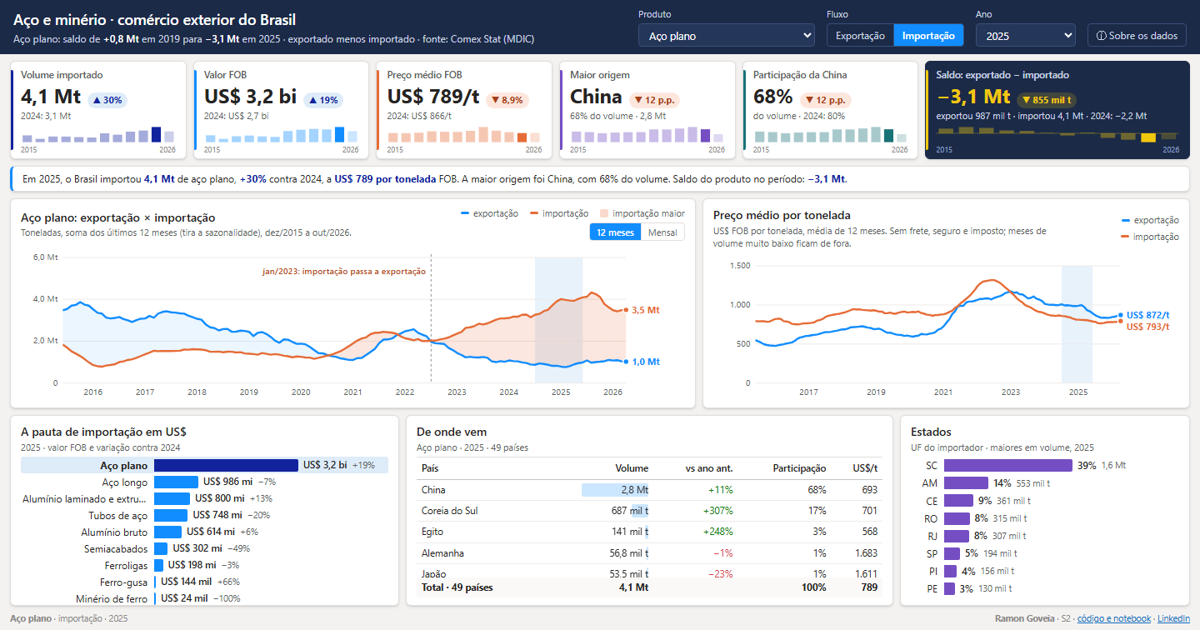
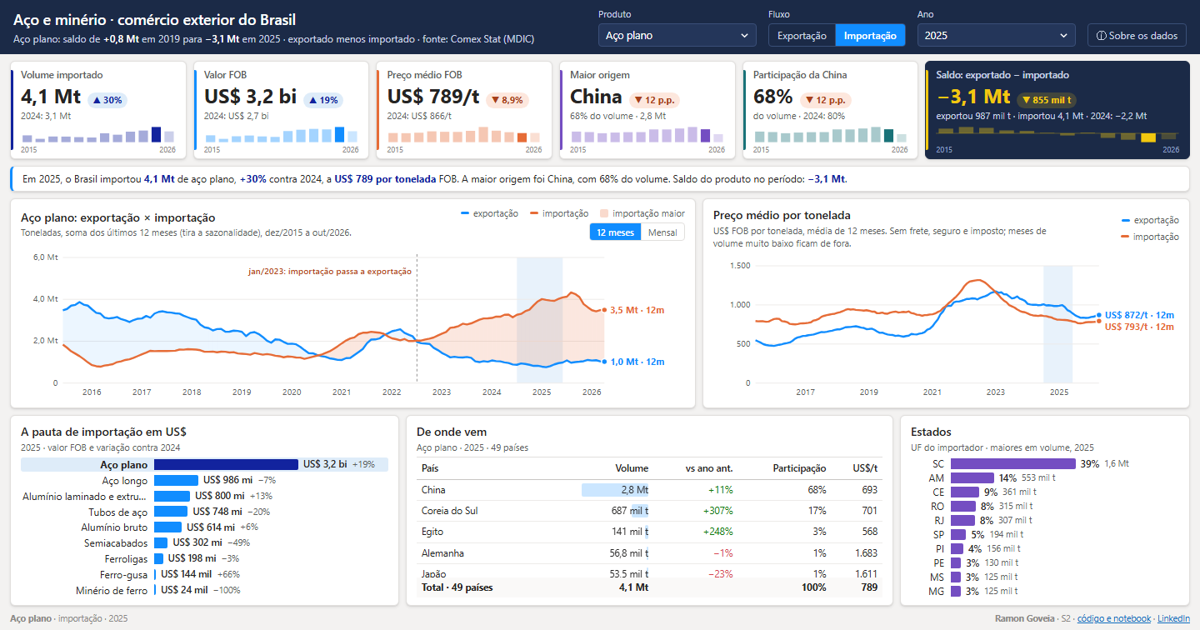
Revisão: ponteiro normal, pauta inteira em telas baixas, UFs especiais, rótulos de 12 meses e variação zero neutra

diff --git a/painel/app.js b/painel/app.js
@@ -106,7 +106,9 @@
   function delta(id, v, f) {
     const e = $(id);
     if (v == null || !isFinite(v)) { e.textContent = ''; e.className = 'delta'; return; }
-    e.className = 'delta ' + (v >= 0 ? 'up' : 'down'); e.textContent = (v >= 0 ? '▲ ' : '▼ ') + f(Math.abs(v));
+    const t = f(Math.abs(v));
+    if (t === f(0)) { e.className = 'delta zero'; e.textContent = '= ' + t; return; }
+    e.className = 'delta ' + (v >= 0 ? 'up' : 'down'); e.textContent = (v >= 0 ? '▲ ' : '▼ ') + t;
   }
   const fPct = v => nf(v * 100, v < .1 ? 1 : 0) + '%', fPP = v => nf(v * 100, 0) + ' p.p.';
   const sinalT = t => (t >= 0 ? '+' : '−') + ton(Math.abs(t));
@@ -174,7 +176,7 @@
 
     // leitura
     let txt = `Em ${rotPer(a)}, o Brasil ${f ? 'importou' : 'exportou'} <b>${ton(atual.t)}</b> de ${prod.toLowerCase()}${nomeC ? (f ? ' (origem: ' : ' (destino: ') + nomeC + ')' : ''}`;
-    if (ant && ant.t > 0) txt += `, <b>${pct(atual.t / ant.t - 1)}</b> contra ${a === UA ? 'o mesmo período de ' : ''}${a - 1}`;
+    if (ant && ant.t > 0) txt += `, <b>${(atual.t >= ant.t ? '+' : '−') + fPct(Math.abs(atual.t / ant.t - 1))}</b> contra ${a === UA ? 'o mesmo período de ' : ''}${a - 1}`;
     if (pr) txt += `, a <b>US$ ${nf(pr)} por tonelada</b> FOB`;
     txt += '.';
     if (!nomeC && ord.length) txt += ` ${f ? 'A maior origem' : 'O maior destino'} foi ${D.paises[ord[0][0]]}, com ${pp(ord[0][1].t / totT)} do volume.`;
@@ -190,7 +192,7 @@
   const rotMes = i => `${MES[i % 12]}/${A0 + Math.floor(i / 12)}`;
   function grafico(id, series, o) {
     const el = $(id), box = el.parentNode.getBoundingClientRect(), i0 = o.i0 || 0;
-    const W = Math.max(280, Math.round(box.width)), H = Math.max(150, Math.round(box.height)), m = { l: 50, r: 70, t: 16, b: 20 };
+    const W = Math.max(280, Math.round(box.width)), H = Math.max(150, Math.round(box.height)), m = { l: 50, r: 96, t: 16, b: 20 };
     const vals = series.flatMap(s => s.v.slice(i0)).filter(v => v != null && isFinite(v));
     if (!vals.length) { el.innerHTML = ''; return; }
     let mx = Math.max(...vals), mn = o.zero ? Math.min(...vals, 0) : Math.min(...vals);
@@ -229,7 +231,7 @@
       let d = '', pen = false, ult = -1;
       s.v.forEach((v, i) => { if (i < i0 || v == null || !isFinite(v)) { pen = false; return; } d += (pen ? 'L' : 'M') + X(i).toFixed(1) + ',' + Y(v).toFixed(1); pen = true; ult = i; });
       g += `<path d="${d}" fill="none" stroke="${s.cor}" stroke-width="${o.fino ? 1.4 : 2.4}" stroke-linejoin="round"/>`;
-      if (ult >= 0) fins.push({ x: X(ult), y: Y(s.v[ult]), cor: s.cor, txt: o.fmt(s.v[ult], true) });
+      if (ult >= 0) fins.push({ x: X(ult), y: Y(s.v[ult]), cor: s.cor, txt: o.fmt(s.v[ult], true) + (o.sufixo || '') });
     }
     fins.sort((p, q) => p.y - q.y);
     for (let k = 1; k < fins.length; k++) { const prev = fins[k - 1].ty || fins[k - 1].y; if (fins[k].y - prev < 14) fins[k].ty = prev + 14; }
@@ -256,12 +258,12 @@
     const fT = (v, longo) => longo ? ton(v) : (v === 0 ? '0' : v >= 1e6 ? nf(v / 1e6, v >= 1e7 ? 0 : 1) + ' Mt' : nf(v / 1e3) + ' mil');
     const ve = doze ? rolar(Array.from(e.t)) : Array.from(e.t), vi = doze ? rolar(Array.from(i.t)) : Array.from(i.t);
     grafico('svgSerie', [{ nome: 'exportação', cor: '#118dff', v: ve }, { nome: 'importação', cor: '#e66c37', v: vi }],
-      { fmt: fT, titulo: doze ? 'soma de 12 meses' : 'no mês', i0: doze ? 11 : 0, zero: true, area: true, cruz: doze, fino: !doze });
+      { fmt: fT, titulo: doze ? 'soma de 12 meses' : 'no mês', i0: doze ? 11 : 0, zero: true, area: true, cruz: doze, fino: !doze, sufixo: doze ? ' · 12m' : '' });
     // preço: some quando o volume de 12 meses é muito baixo (evita picos de poucas toneladas)
     const pr = s => { const t = rolar(Array.from(s.t)), v = rolar(Array.from(s.v)), lim = Math.max(0, ...t.filter(x => x != null)) * .03; return t.map((x, k) => x != null && x > lim && x > 0 ? v[k] * 1000 / x : null); };
     $('precoSub').textContent = `US$ FOB por tonelada, média de 12 meses${nomeC}. Sem frete, seguro e imposto; meses de volume muito baixo ficam de fora.`;
     grafico('svgPreco', [{ nome: 'exportação', cor: '#118dff', v: pr(e) }, { nome: 'importação', cor: '#e66c37', v: pr(i) }],
-      { fmt: (v, longo) => (longo ? 'US$ ' : '') + nf(v) + (longo ? '/t' : ''), titulo: 'preço médio de 12 meses', i0: 11, zero: false });
+      { fmt: (v, longo) => (longo ? 'US$ ' : '') + nf(v) + (longo ? '/t' : ''), titulo: 'preço médio de 12 meses', i0: 11, zero: false, sufixo: ' · 12m' });
   }
   document.querySelectorAll('#fModo button').forEach(b => b.onclick = () => { st.modo = +b.dataset.m === 1 ? 1 : 12; renderSeries(); });
 
@@ -299,7 +301,7 @@
     $('ufSub').textContent = `${f ? 'UF do importador' : 'UF produtora'} · maiores em volume, ${rotPer(st.ano)}`;
     const tot = [...loc.values()].reduce((s, x) => s + x.t, 0);
     const ord = [...loc.entries()].filter(([, x]) => x.t > 0).sort((x, y) => y[1].t - x[1].t).slice(0, 10), mx = ord.length ? ord[0][1].t : 1;
-    const sig = n => ({ 'Minas Gerais': 'MG', 'São Paulo': 'SP', 'Rio de Janeiro': 'RJ', 'Espírito Santo': 'ES', 'Paraná': 'PR', 'Santa Catarina': 'SC', 'Rio Grande do Sul': 'RS', 'Bahia': 'BA', 'Pará': 'PA', 'Maranhão': 'MA', 'Ceará': 'CE', 'Pernambuco': 'PE', 'Goiás': 'GO', 'Mato Grosso': 'MT', 'Mato Grosso do Sul': 'MS', 'Amazonas': 'AM', 'Distrito Federal': 'DF', 'Paraíba': 'PB', 'Rio Grande do Norte': 'RN', 'Alagoas': 'AL', 'Sergipe': 'SE', 'Piauí': 'PI', 'Tocantins': 'TO', 'Rondônia': 'RO', 'Acre': 'AC', 'Amapá': 'AP', 'Roraima': 'RR' }[n] || n.slice(0, 6));
+    const sig = n => ({ 'Minas Gerais': 'MG', 'São Paulo': 'SP', 'Rio de Janeiro': 'RJ', 'Espírito Santo': 'ES', 'Paraná': 'PR', 'Santa Catarina': 'SC', 'Rio Grande do Sul': 'RS', 'Bahia': 'BA', 'Pará': 'PA', 'Maranhão': 'MA', 'Ceará': 'CE', 'Pernambuco': 'PE', 'Goiás': 'GO', 'Mato Grosso': 'MT', 'Mato Grosso do Sul': 'MS', 'Amazonas': 'AM', 'Distrito Federal': 'DF', 'Paraíba': 'PB', 'Rio Grande do Norte': 'RN', 'Alagoas': 'AL', 'Sergipe': 'SE', 'Piauí': 'PI', 'Tocantins': 'TO', 'Rondônia': 'RO', 'Acre': 'AC', 'Amapá': 'AP', 'Roraima': 'RR', 'Não Declarada': 'N/D', 'Mercadoria Nacionalizada': 'Nac.', 'Reexportação': 'Reex.' }[n] || n.slice(0, 5));
     $('ufs').innerHTML = ord.length ? ord.map(([k, x]) => `<div class="linha" title="${D.ufs[k]}"><span class="n">${sig(D.ufs[k])}</span><span class="trilho"><i style="width:${(x.t / mx * 55).toFixed(1)}%;background:#744ec2"></i><b>${pp(x.t / tot)}</b><em>${ton(x.t)}</em></span></div>`).join('') : '<div class="panel-foot">Sem dado no período.</div>';
     aparar($('ufs'));
   }

diff --git a/painel/index.html b/painel/index.html
@@ -29,9 +29,9 @@
   .v-serie{grid-column:span 7}.v-preco{grid-column:span 5}.v-pauta{grid-column:span 4}.v-paises{grid-column:span 5}.v-ufs{grid-column:span 3}
   .vrow{display:flex;align-items:baseline;gap:8px;flex-wrap:wrap;min-width:0}
   .delta{font-size:11px;font-weight:700;border-radius:10px;padding:1px 7px;white-space:nowrap;line-height:1.5}
-  .delta.up{background:#deecf9;color:#12239e}.delta.down{background:#fde7dd;color:#a8401a}
+  .delta.up{background:#deecf9;color:#12239e}.delta.zero{background:#edebe9;color:#605e5c}.k-marinho .delta.zero{background:rgba(255,255,255,.12);color:#c9d3e6}.delta.down{background:#fde7dd;color:#a8401a}
   .k-marinho .delta.up{background:rgba(255,255,255,.14);color:#cfe3ff}.k-marinho .delta.down{background:rgba(242,200,15,.18);color:#f2c80f}
-  .kpi svg.cols{height:24px;margin-top:auto;padding-top:3px;cursor:crosshair}
+  .kpi svg.cols{height:24px;margin-top:auto;padding-top:3px}
   .anos{display:flex;justify-content:space-between;font-size:9px;color:var(--apoio);line-height:1;margin-top:1px}.k-marinho .anos{color:#8fa0c2}
   .cab-dir{display:flex;flex-direction:column;align-items:flex-end;gap:4px}
   .botoes.mini{height:22px;border-color:var(--borda)}.botoes.mini button{color:var(--texto-2);border-right-color:var(--borda);font-size:11px;padding:0 8px}
@@ -59,13 +59,13 @@
   }
   @media(max-width:1099px){.v-serie,.v-preco,.v-paises{grid-column:1/-1}.v-pauta,.v-ufs{grid-column:span 6}.tabela-box{max-height:360px}}
   @media(max-width:760px){.v-pauta,.v-ufs{grid-column:1/-1}}
-  .lista{flex:1 1 auto;min-height:0;display:flex;flex-direction:column;justify-content:space-around}
-  .barras .linha{display:grid;grid-template-columns:150px minmax(0,1fr);gap:8px;align-items:center;width:100%;padding:1px 2px;border:0;background:transparent;text-align:left;border-radius:3px}
+  .lista{flex:1 1 auto;min-height:0;display:flex;flex-direction:column;justify-content:space-around;overflow-y:auto;overflow-x:hidden}
+  .barras .linha{display:grid;grid-template-columns:150px minmax(0,1fr);gap:8px;align-items:center;width:100%;padding:0 2px;flex:none;border:0;background:transparent;text-align:left;border-radius:3px}
   @media(max-width:560px){.barras .linha{grid-template-columns:104px minmax(0,1fr)}}
-  .barras.estreito .linha{grid-template-columns:30px minmax(0,1fr)}
+  .barras.estreito .linha{grid-template-columns:38px minmax(0,1fr)}
   .barras .linha:hover{background:#f3f2f1}.barras .linha.sel{background:var(--sel)}
   .barras .n{font-size:12px;color:var(--texto);white-space:nowrap;overflow:hidden;text-overflow:ellipsis;text-align:right}.barras .linha.sel .n{font-weight:700}
-  .barras .trilho{display:flex;align-items:center;gap:6px;height:18px;min-width:0}.barras .trilho i{display:block;height:15px;border-radius:0 2px 2px 0;min-width:2px;flex:none}
+  .barras .trilho{display:flex;align-items:center;gap:6px;height:17px;min-width:0}.barras .trilho i{display:block;height:13px;border-radius:0 2px 2px 0;min-width:2px;flex:none}
   .barras .trilho b{font-size:11.5px;font-weight:600;white-space:nowrap;color:var(--texto)}.barras .trilho em{font-style:normal;font-size:10.5px;color:var(--texto-2);white-space:nowrap}
   .tabela-box{overflow:auto;flex:1 1 auto;min-height:0;border-top:1px solid var(--borda)}
   table{font-size:11.5px}th{padding:5px 6px}td{padding:4px 6px}
@@ -130,7 +130,7 @@
     <li><b>2026 vai até outubro.</b> Com 2026 escolhido, as comparações usam janeiro a outubro dos dois anos.</li>
     <li><b>FOB não é o preço posto na fábrica.</b> No importado faltam frete, seguro, imposto de importação e internação. O preço médio do grupo também muda com a mistura de produtos.</li>
     <li><b>O dado mostra o quê, não o porquê.</b> Volume e origem mudam com defesa comercial, câmbio e preço internacional ao mesmo tempo. País é a origem declarada; aço revestido num terceiro país aparece com a origem desse país.</li>
-    <li><b>Comércio exterior não é consumo.</b> Para a fatia do importado no mercado brasileiro faltam produção e vendas internas. Estado é a UF do produto: produtor na exportação, importador na importação.</li>
+    <li><b>Comércio exterior não é consumo.</b> Para a fatia do importado no mercado brasileiro faltam produção e vendas internas. Estado é a UF do produto: produtor na exportação, importador na importação. N/D = UF não declarada; Nac. = mercadoria nacionalizada; Reex. = reexportação.</li>
     <li><b>Autor:</b> Ramon Goveia · dados aplicados ao mercado da indústria pesada · <a href="https://github.com/GoveiaDev/s2-aco-minerio-comercio-exterior">código, notebook e limitações</a>.</li></ul>
   <form method="dialog"><button>Fechar</button></form>
 </dialog>
